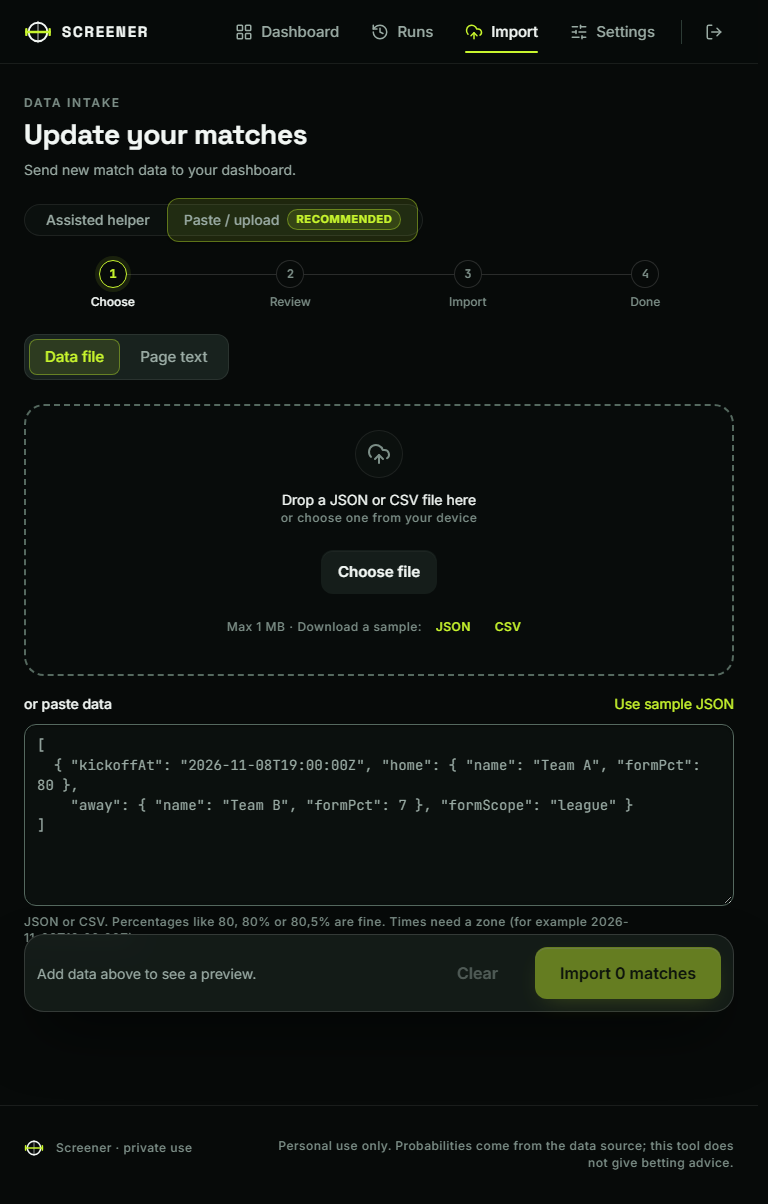
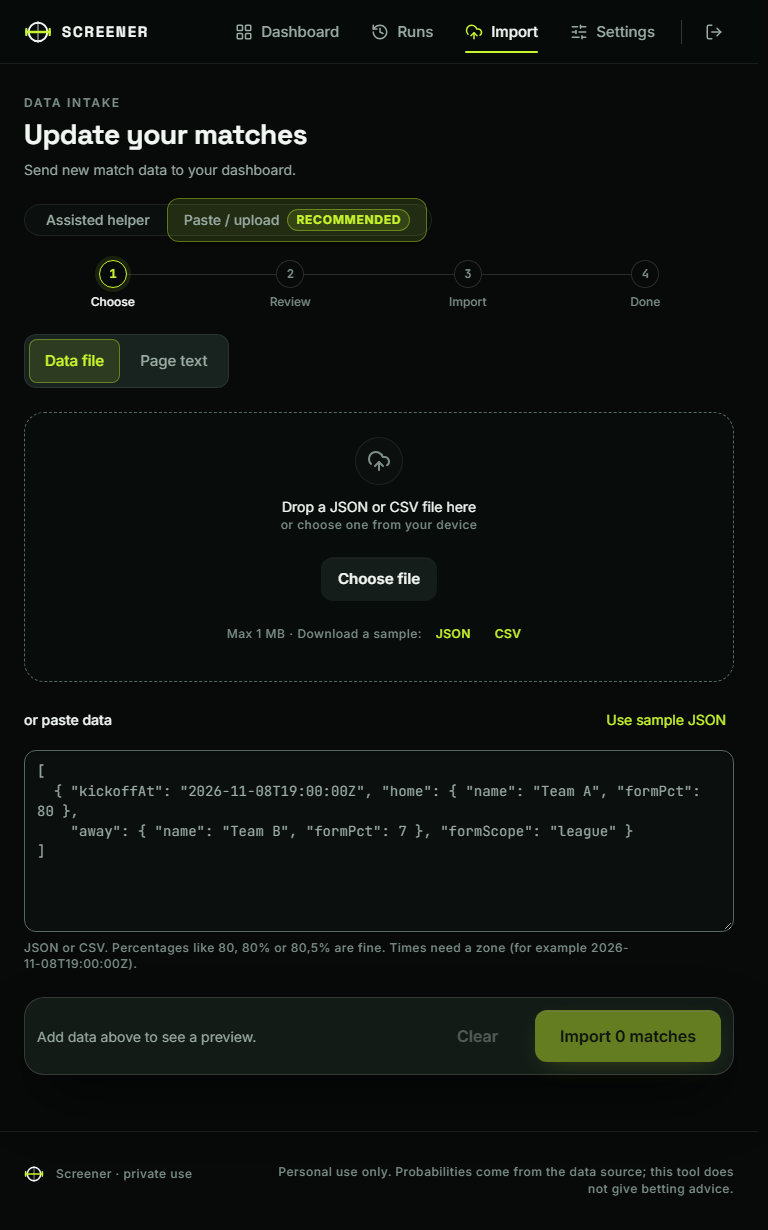
Import: sleek fixes (1px drop zone, 44px targets, 12px chip), a11y contrast, screenshots

diff --git a/src/components/import/ImportView.tsx b/src/components/import/ImportView.tsx
@@ -431,7 +431,7 @@ export function ImportView({
   const pasteBytes = new Blob([fileText]).size;
   const recommended = accessMode === "assisted_ingest" ? "helper" : "paste";
   const chip = (
-    <span className="rounded-4xl border border-primary-border bg-primary-soft px-2 py-0.5 text-[0.6875rem] font-bold tracking-[0.06em] text-primary uppercase">
+    <span className="rounded-4xl border border-primary-border bg-primary-soft px-2 py-0.5 text-xs font-bold tracking-[0.06em] text-primary uppercase">
       Recommended
     </span>
   );
@@ -484,7 +484,7 @@ export function ImportView({
                   { value: "file", label: "Data file" },
                   { value: "text", label: "Page text" },
                 ]}
-                className="w-full sm:w-auto"
+                className="w-full sm:w-auto [&_button]:h-11"
               />
 
               {source === "file" ? (
@@ -518,7 +518,7 @@ export function ImportView({
                       <button
                         type="button"
                         onClick={() => onFileTextChange(buildSampleJson(new Date()))}
-                        className="inline-flex min-h-6 items-center text-sm text-primary underline-offset-2 hover:underline"
+                        className="inline-flex min-h-11 items-center rounded-md px-2 text-sm text-primary underline-offset-2 hover:underline"
                       >
                         Use sample JSON
                       </button>

diff --git a/src/components/import/DropZone.tsx b/src/components/import/DropZone.tsx
@@ -61,7 +61,7 @@ export function DropZone({
         if (file && !disabled) onFile(file);
       }}
       className={cn(
-        "flex min-h-44 flex-col items-center justify-center gap-3 rounded-xl border-2 p-6 text-center transition-[background-color,border-color,box-shadow] duration-200",
+        "flex min-h-44 flex-col items-center justify-center gap-3 rounded-xl border p-6 text-center transition-[background-color,border-color,box-shadow] duration-200",
         over
           ? "border-solid border-primary-border bg-primary-soft ring-4 ring-primary/10"
           : loaded && !reading

diff --git a/src/components/import/PreviewList.tsx b/src/components/import/PreviewList.tsx
@@ -69,7 +69,8 @@ function Status({ row }: { row: PreviewRow }) {
 
 const Teams = ({ row }: { row: PreviewRow }) => (
   <>
-    {row.home ?? "Unavailable"} <span className="text-faint">vs</span> {row.away ?? "Unavailable"}
+    {row.home ?? "Unavailable"} <span className="text-muted-foreground">vs</span>{" "}
+    {row.away ?? "Unavailable"}
   </>
 );
 
